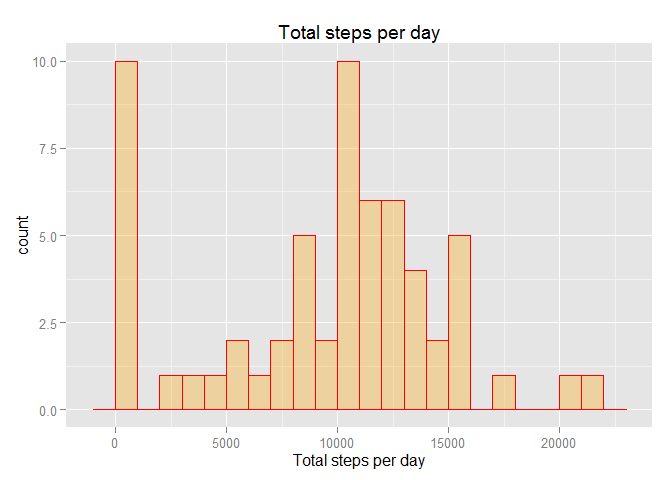
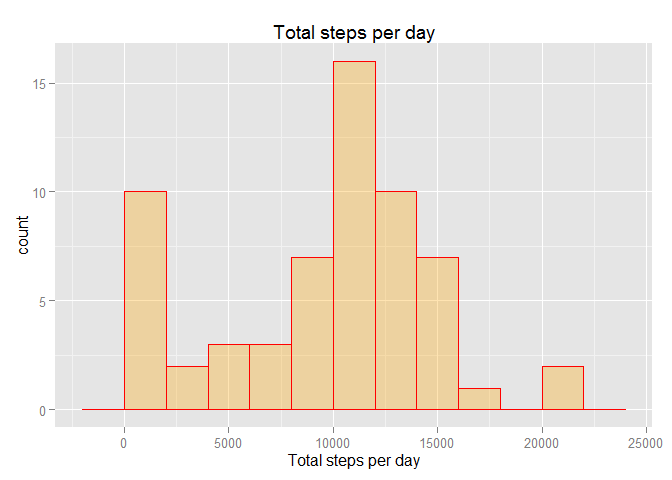
adding toc and more answers
missing fill in and last 2 q.

diff --git a/PA1_template.html b/PA1_template.html
@@ -66,16 +66,27 @@ img {
 <h4 class="date"><em>Sunday, June 07, 2015</em></h4>
 </div>
 
+<div id="TOC">
+<ul>
+<li><a href="#loading-and-preprocessing-the-data">Loading and preprocessing the data</a></li>
+<li><a href="#what-is-mean-total-number-of-steps-taken-per-day">What is mean total number of steps taken per day?</a></li>
+<li><a href="#what-is-the-average-daily-activity-pattern">What is the average daily activity pattern?</a></li>
+<li><a href="#imputing-missing-values">Imputing missing values</a></li>
+<li><a href="#read-this">read this</a><ul>
+<li><a href="#are-there-differences-in-activity-patterns-between-weekdays-and-weekends">Are there differences in activity patterns between weekdays and weekends?</a></li>
+</ul></li>
+</ul>
+</div>
 
-<p><em>Last updated on: Mon Jun 08 00:20:11 2015</em></p>
+<p><em>Last updated on: Wed Jun 10 00:45:05 2015</em></p>
 <hr />
+<div id="loading-and-preprocessing-the-data" class="section level3">
+<h3>Loading and preprocessing the data</h3>
 <div id="load-libraries-to-be-used" class="section level4">
 <h4>Load libraries to be used</h4>
 <pre class="r"><code>require(dplyr)
-require(ggplot2)</code></pre>
-</div>
-<div id="loading-and-preprocessing-the-data" class="section level3">
-<h3>Loading and preprocessing the data</h3>
+require(ggplot2)
+require(xtable)</code></pre>
 <p><strong>1. Load the data (i.e. read.csv())</strong></p>
 <pre class="r"><code>df &lt;- read.csv(&quot;activity.csv&quot;)
 head(df)</code></pre>
@@ -103,6 +114,7 @@ str(df)</code></pre>
 ##  $ interval: int  0 5 10 15 20 25 30 35 40 45 ...</code></pre>
 <hr />
 </div>
+</div>
 <div id="what-is-mean-total-number-of-steps-taken-per-day" class="section level3">
 <h3>What is mean total number of steps taken per day?</h3>
 <p>For this part of the assignment, i’m <strong>ignoring the missing values</strong> in the dataset.</p>
@@ -123,13 +135,13 @@ head(steps_by_date)</code></pre>
 ## 5 2012-10-05       13294
 ## 6 2012-10-06       15420</code></pre>
 <p><strong>2. Make a histogram of the total number of steps taken each day</strong></p>
-<pre class="r"><code>qplot(total_steps, data=steps_by_date, geom=&quot;histogram&quot;,binwidth=1000,
+<pre class="r"><code>qplot(total_steps, data=steps_by_date, geom=&quot;histogram&quot;,binwidth=2000,
       fill=I(&quot;orange&quot;),col=I(&quot;red&quot;),alpha=I(.3),
       main=&quot;Total steps per day&quot;,xlab=&quot;Total steps per day&quot;)</code></pre>
[2 lines of base64/hex data omitted]
 <p><strong>3. Calculate and report the mean and median of the total number of steps taken per day</strong></p>
 <ul>
-<li>Calculating a Dataframe with a per-day mean/median</li>
+<li>Calculating a Dataframe with a per-day mean/median (in case you want it)</li>
 </ul>
 <pre class="r"><code>steps_by_date_2 &lt;- summarise(df_bydate, total_steps = sum(steps,na.rm=T), median=median(steps,na.rm=T),mean=mean(steps,na.rm=T))
 head(steps_by_date_2)</code></pre>
@@ -143,11 +155,11 @@ head(steps_by_date_2)</code></pre>
 ## 5 2012-10-05       13294      0 46.15972
 ## 6 2012-10-06       15420      0 53.54167</code></pre>
 <ul>
-<li>Calculating totalized mean/median</li>
+<li>Calculating totalized mean/median for all days</li>
 </ul>
-<pre class="r"><code>mean(steps_by_date_2$total_steps)</code></pre>
+<pre class="r"><code>mean(steps_by_date$total_steps)</code></pre>
 <pre><code>## [1] 9354.23</code></pre>
-<pre class="r"><code>median(steps_by_date_2$total_steps)</code></pre>
+<pre class="r"><code>median(steps_by_date$total_steps)</code></pre>
 <pre><code>## [1] 10395</code></pre>
 <hr />
 </div>
@@ -156,25 +168,48 @@ head(steps_by_date_2)</code></pre>
 <p><strong>1. Make a time series plot (i.e. type = “l”) of the 5-minute interval (x-axis) and the average number of steps taken, averaged across all days (y-axis)</strong></p>
 <pre class="r"><code>df_byinterval &lt;- group_by(df,interval)
 df_byinterval_summary &lt;- summarise(df_byinterval, 
-  steps_for_interval = mean(steps,na.rm=T))
-qplot(interval,steps_for_interval, data=df_byinterval_summary, geom=&quot;line&quot;)</code></pre>
[1 lines of base64/hex data omitted]
+  steps = mean(steps,na.rm=T))
+qplot(interval,steps, data=df_byinterval_summary, geom=&quot;line&quot;,
+      xlab=&quot;Interval (5min steps)&quot;)</code></pre>
[1 lines of base64/hex data omitted]
+<p><strong>2. Which 5-minute interval, on average across all the days in the dataset, contains the maximum number of steps?</strong></p>
+<pre class="r"><code>df_byinterval_summary[df_byinterval_summary$steps==max(df_byinterval_summary$steps), ]</code></pre>
+<pre><code>## Source: local data frame [1 x 2]
+## 
+##   interval    steps
+## 1      835 206.1698</code></pre>
 <hr />
 </div>
 <div id="imputing-missing-values" class="section level3">
 <h3>Imputing missing values</h3>
 <p>Note that there are a number of days/intervals where there are missing values (coded as NA). The presence of missing days may introduce bias into some calculations or summaries of the data.</p>
 <p><strong>1. Calculate and report the total number of missing values in the dataset (i.e. the total number of rows with NAs)</strong></p>
+<pre class="r"><code>#calculate NAs found per column
+apply(df,2,function(x) { length( which( is.na(x) ) ) } )</code></pre>
+<pre><code>##    steps     date interval 
+##     2304        0        0</code></pre>
+<pre class="r"><code>#double check out steps values, since it's the one we care for
+length(which(is.na(df$steps)))</code></pre>
+<pre><code>## [1] 2304</code></pre>
 <p><strong>2. Devise a strategy for filling in all of the missing values in the dataset. The strategy does not need to be sophisticated. For example, you could use the mean/median for that day, or the mean for that 5-minute interval, etc.</strong></p>
+<ul>
+<li>using the mean for the day as a fill-in strategy</li>
+</ul>
 <p><strong>3. Create a new dataset that is equal to the original dataset but with the missing data filled in.</strong></p>
+</div>
+<div id="read-this" class="section level1">
+<h1>read this</h1>
+<p><a href="https://stackoverflow.com/questions/7279089/replace-all-na-with-false-in-selected-columns-in-r">sO</a></p>
+<pre class="r"><code>#copy original data
+df_filledin &lt;- df</code></pre>
 <p><strong>4. Make a histogram of the total number of steps taken each day and Calculate and report the mean and median total number of steps taken per day. Do these values differ from the estimates from the first part of the assignment? What is the impact of imputing missing data on the estimates of the total daily number of steps?</strong></p>
 <hr />
-</div>
 <div id="are-there-differences-in-activity-patterns-between-weekdays-and-weekends" class="section level3">
 <h3>Are there differences in activity patterns between weekdays and weekends?</h3>
 <p>For this part the weekdays() function may be of some help here. Use the dataset with the filled-in missing values for this part.</p>
 <p><strong>1. Create a new factor variable in the dataset with two levels - “weekday” and “weekend” indicating whether a given date is a weekday or weekend day.</strong></p>
 <p><strong>2. Make a panel plot containing a time series plot (i.e. type = “l”) of the 5-minute interval (x-axis) and the average number of steps taken, averaged across all weekday days or weekend days (y-axis). See the README file in the GitHub repository to see an example of what this plot should look like using simulated data.</strong></p>
+</div>
 </div>
 
 

diff --git a/PA1_template.md b/PA1_template.md
@@ -2,18 +2,21 @@
 Ruben Llibre  
 Sunday, June 07, 2015  
 
-*Last updated on: Mon Jun 08 00:20:11 2015*
+*Last updated on: Wed Jun 10 00:45:05 2015*
 
 ***
+
+
+
+### Loading and preprocessing the data
 
 #### Load libraries to be used
 
 ```r
 require(dplyr)
 require(ggplot2)
+require(xtable)
 ```
-
-### Loading and preprocessing the data
 
 **1. Load the data (i.e. read.csv())**
 
@@ -91,7 +94,7 @@ head(steps_by_date)
 
 
 ```r
-qplot(total_steps, data=steps_by_date, geom="histogram",binwidth=1000,
+qplot(total_steps, data=steps_by_date, geom="histogram",binwidth=2000,
       fill=I("orange"),col=I("red"),alpha=I(.3),
       main="Total steps per day",xlab="Total steps per day")
 ```
@@ -100,7 +103,8 @@ qplot(total_steps, data=steps_by_date, geom="histogram",binwidth=1000,
 
 **3. Calculate and report the mean and median of the total number of steps taken per day**
 
-+ Calculating a Dataframe with a per-day mean/median
++ Calculating a Dataframe with a per-day mean/median (in case you want it)
+
 
 ```r
 steps_by_date_2 <- summarise(df_bydate, total_steps = sum(steps,na.rm=T), median=median(steps,na.rm=T),mean=mean(steps,na.rm=T))
@@ -118,10 +122,11 @@ head(steps_by_date_2)
 ## 5 2012-10-05       13294      0 46.15972
 ## 6 2012-10-06       15420      0 53.54167
 ```
-+ Calculating totalized mean/median
++ Calculating totalized mean/median for all days
+
 
 ```r
-mean(steps_by_date_2$total_steps)
+mean(steps_by_date$total_steps)
 ```
 
 ```
@@ -129,7 +134,7 @@ mean(steps_by_date_2$total_steps)
 ```
 
 ```r
-median(steps_by_date_2$total_steps)
+median(steps_by_date$total_steps)
 ```
 
 ```
@@ -145,12 +150,26 @@ median(steps_by_date_2$total_steps)
 ```r
 df_byinterval <- group_by(df,interval)
 df_byinterval_summary <- summarise(df_byinterval, 
-  steps_for_interval = mean(steps,na.rm=T))
-qplot(interval,steps_for_interval, data=df_byinterval_summary, geom="line")
+  steps = mean(steps,na.rm=T))
+qplot(interval,steps, data=df_byinterval_summary, geom="line",
+      xlab="Interval (5min steps)")
 ```
 
 ![](PA1_template_files/figure-html/unnamed-chunk-3-1.png) 
+
 **2. Which 5-minute interval, on average across all the days in the dataset, contains the maximum number of steps?**
+
+
+```r
+df_byinterval_summary[df_byinterval_summary$steps==max(df_byinterval_summary$steps), ]
+```
+
+```
+## Source: local data frame [1 x 2]
+## 
+##   interval    steps
+## 1      835 206.1698
+```
 
 ***
 
@@ -160,9 +179,39 @@ Note that there are a number of days/intervals where there are missing values (c
 
 **1. Calculate and report the total number of missing values in the dataset (i.e. the total number of rows with NAs)**
 
+
+```r
+#calculate NAs found per column
+apply(df,2,function(x) { length( which( is.na(x) ) ) } )
+```
+
+```
+##    steps     date interval 
+##     2304        0        0
+```
+
+```r
+#double check out steps values, since it's the one we care for
+length(which(is.na(df$steps)))
+```
+
+```
+## [1] 2304
+```
+
 **2. Devise a strategy for filling in all of the missing values in the dataset. The strategy does not need to be sophisticated. For example, you could use the mean/median for that day, or the mean for that 5-minute interval, etc.**
 
++ using the mean for the day as a fill-in strategy
+
 **3. Create a new dataset that is equal to the original dataset but with the missing data filled in.**
+
+#read this
+[sO](https://stackoverflow.com/questions/7279089/replace-all-na-with-false-in-selected-columns-in-r)
+
+```r
+#copy original data
+df_filledin <- df
+```
 
 **4. Make a histogram of the total number of steps taken each day and Calculate and report the mean and median total number of steps taken per day. Do these values differ from the estimates from the first part of the assignment? What is the impact of imputing missing data on the estimates of the total daily number of steps?**
 
